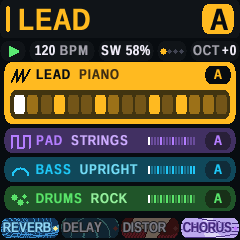
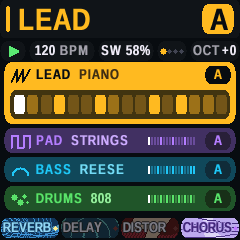
A new project starts on Piano, Strings, Reese and 808; guide pictures refreshed

Changed region(s): [[0.3208, 0.6708, 0.5833, 0.7292], [0.3792, 0.7875, 0.525, 0.8458]]

diff --git a/docs/index.html b/docs/index.html
@@ -150,7 +150,7 @@ footer a { color: var(--sub); }
       <div>
         <h3>Hear the band</h3>
         <ol>
-          <li>Press <kbd>PLAY</kbd>. The demo starts.</li>
+          <li>Press <kbd>PLAY</kbd>. The demo starts: piano, strings, a Reese bass and an 808.</li>
           <li><kbd>MASTER</kbd> is the volume. <kbd>PLAY</kbd> again stops.</li>
         </ol>
       </div>

diff --git a/firmware/src/quartet.c b/firmware/src/quartet.c
@@ -418,9 +418,10 @@ static void set_defaults(void)                  /* a starting groove in pattern 
     uint32_t i, s, t, p;
     for (i = 0; i < sizeof set; i++) z[i] = 0;
     set.bpm = 120;
-    for (i = 0; i < NSYN; i++) { set.styp[i] = (uint8_t)i; sound_load(i, 0); }   /* each slot its first instrument and sound */
+    for (i = 0; i < NSYN; i++) { set.styp[i] = (uint8_t)i; sound_load(i, i == T_BASS ? SND_REESE : 0u); }   /* PIANO, REESE, STRINGS */
     trk_req++;                                  /* (the voices dealt again for them) */
-    for (i = 0; i < NDR; i++) set.dsnd[i] = KITS[0][i];   /* the 808 kit */
+    set.dkit = KIT_808;                         /* the drums: the 808 kit */
+    for (i = 0; i < NDR; i++) set.dsnd[i] = KITS[KIT_808][i];
     for (t = 0; t < NTRK; t++) {                /* effects all off, set so that switching one on is heard at once */
         static const tfx_t FX0 = {0, 60, 60, 70, 60, 80, 32, 40, 90, 60};   /* reverb/delay/chorus levels; dist (LEVEL 32); phaser */
         set.fx[t] = FX0;

diff --git a/firmware/src/gb_synth.h b/firmware/src/gb_synth.h
@@ -149,6 +149,7 @@ static const sdef_t SND_LEAD[] = {
     SD("FLUTE", 42, 0, 92, 10, 10, W_SIN, W_NOISE, 24, 12, 40, 80, 110, 55, 95, 10, L_PITCH, LW_TRI), /* a breathy sine with vibrato */
     SD("HARMONICA", 43, 0, 72, 30, 25, W_PULSE, W_SQR, 24, 45, 25, 80, 100, 45, 90, 14, L_AMP, LW_TRI),   /* reedy, a little tremble */
 };
+#define SND_REESE 8u                            /* the bass a new project starts with */
 static const sdef_t SND_BASS[] = {
     /* ORIGINAL */
     SD("UPRIGHT", 0, 0, 72, 25, 40, W_SAW, W_TRI, 24, 40, 0, 92, 85, 50, 60, 0, L_FILT, LW_TRI),       /* round and woody, a thump that holds */

diff --git a/firmware/src/gb_drums.h b/firmware/src/gb_drums.h
@@ -40,6 +40,7 @@ static const uint16_t KDEF[NDR] = {16, 64, 128, 16, 24, 48};
 #define KIT_ROCK 0u
 #define KIT_POPS 2u
 #define KIT_LM1 4u                              /* the LM-1: real samples, not synthesised */
+#define KIT_808 6u                              /* the 808: the kit a new project starts with */
 #define KIT_909 7u
 static const dsnd_t KITS[NKIT][NDR] = {
     {{58, 60, 92}, {70, 82, 86}, {64, 60, 60}, {56, 112, 66}, {64, 64, 64}, {34, 82, 78}},     /* ROCK: a punchy kick, a fat snare, a crash, a floor tom */
